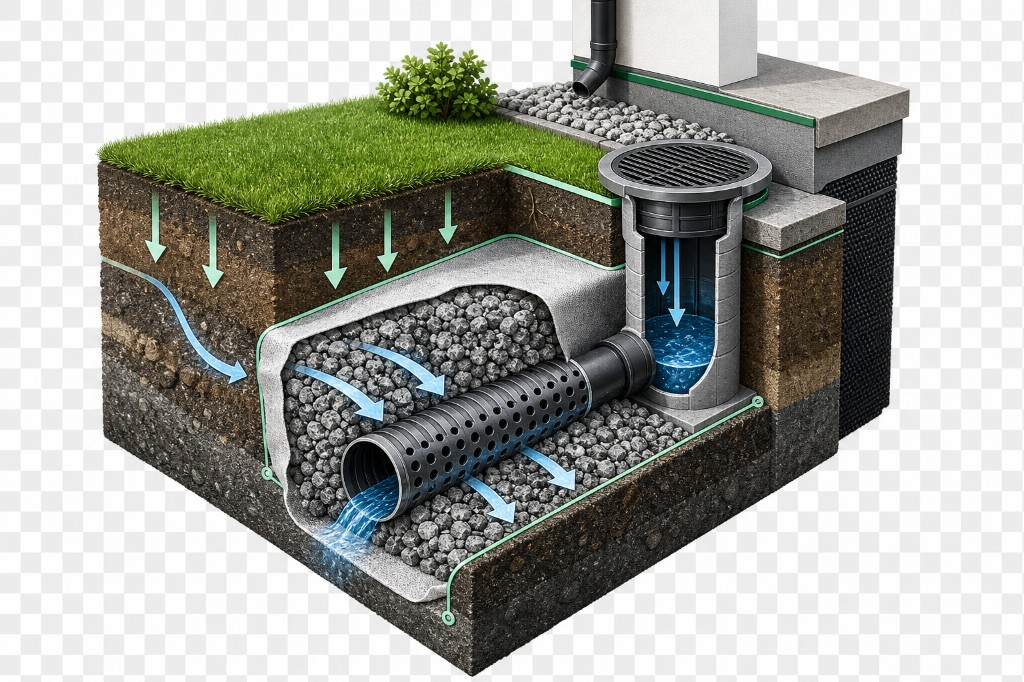
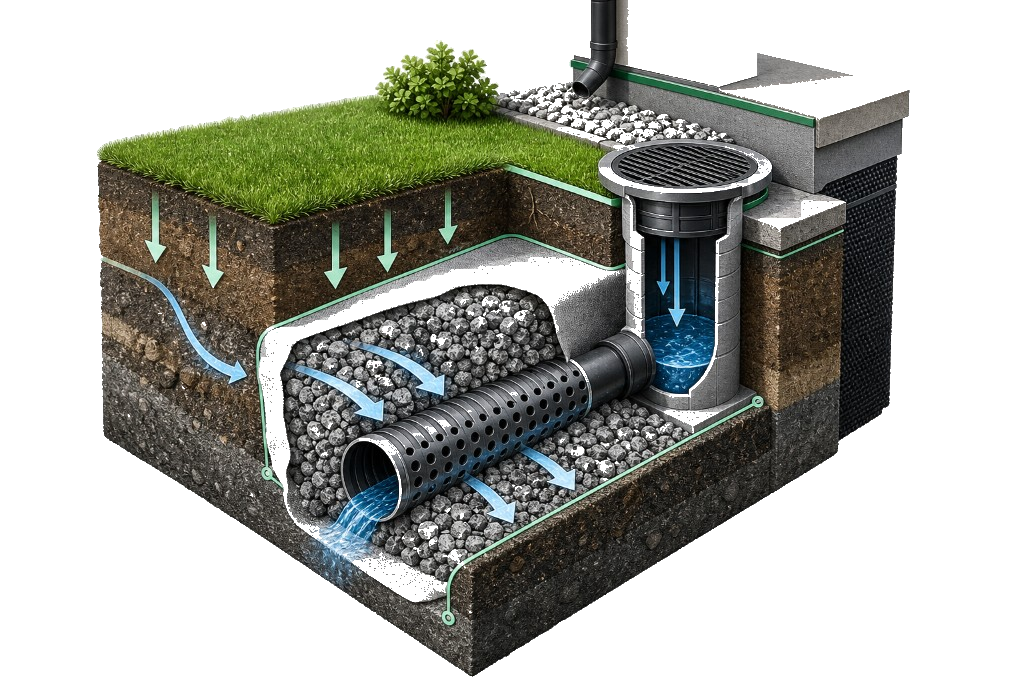
fix(frontend): прозрачный фон схем опций без клетки
Удалена вшитая шахматная подложка из PNG и фон блока сменён на var(--bg), чтобы прозрачные схемы встраивались в тему сайта.

diff --git a/frontend/src/components/construction/project-calculator-catalog-options.tsx b/frontend/src/components/construction/project-calculator-catalog-options.tsx
@@ -270,7 +270,7 @@ function OptionRow({
               className={cn(
                 "relative w-full",
                 isCalculatorOptionDiagramUrl(imageUrl)
-                  ? "aspect-[16/10] bg-[#0a0a0a] p-3 sm:aspect-[16/9] sm:p-4 md:aspect-[2/1]"
+                  ? "aspect-[16/10] bg-[var(--bg)] p-3 sm:aspect-[16/9] sm:p-4 md:aspect-[2/1]"
                   : "aspect-[4/3] bg-[var(--stone)]",
               )}
             >
